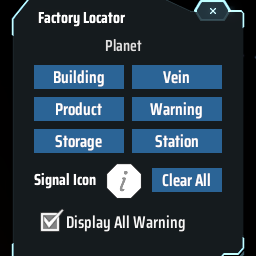
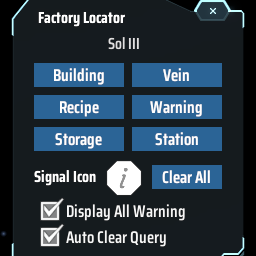
FactoryLocator - v1.2.0
- Add Auto Clear Query.
- Matrix production is now searchable.
- Add DSPMoreRecipes, GenesisBook compat.
- Add Chinese translation.

diff --git a/FactoryLocator/src/Plugin.cs b/FactoryLocator/src/Plugin.cs
@@ -16,7 +16,7 @@ namespace FactoryLocator
     {
         public const string GUID = "starfi5h.plugin.FactoryLocator";
         public const string NAME = "FactoryLocator";
-        public const string VERSION = "1.1.0";
+        public const string VERSION = "1.2.0";
 
         public static UILocatorWindow mainWindow = null;
         public static MainLogic mainLogic = null;

diff --git a/FactoryLocator/README.md b/FactoryLocator/README.md
@@ -2,11 +2,11 @@
 
 Find the positions of specified buildings and indicate them with warning icons.  
   
-![search local planet](https://raw.githubusercontent.com/starfi5h/DSP_Mod_Support/dev/FactoryLocator/doc/demo1.gif)  
+![search local planet](https://raw.githubusercontent.com/starfi5h/DSP_Mod_Support/dev/FactoryLocator/doc/demo3.gif)  
 The default hotkey to open the window is Ctrl + F. Keybind can be configured in game control settings.  
 In picker window, it will show all possible search options among all buildings. The yellow number shows how many buildings qualify for the condition, or how many items are inside all station/box storage.  
-The created warning will stay until Clear button is clicked. You can also toggle to show/hide all warnings.  
-
+Display All Warning: Toggle to show/hide all warnings.  
+Auto Clear Query: When disable, the created signals will stay until Clear button is clicked.  
   
 ![search remote planets](https://raw.githubusercontent.com/starfi5h/DSP_Mod_Support/dev/FactoryLocator/doc/demo2.gif)  
 By default, the mod will search for buildings on the local planet.  
@@ -25,12 +25,22 @@ The mod don't have to install on both host and client. Some behaviors will be di
 Install [NebulaCompatibilityAssist](https://dsp.thunderstore.io/package/starfi5h/NebulaCompatibilityAssist/) to get full functionality for clients.  
 
 ## Installation
-Via [r2modman](https://dsp.thunderstore.io/package/ebkr/r2modman/), or manual download the file and put `FactoryLocator.dll` in `BepInEx/plugins` folder.
+Via [r2modman](https://dsp.thunderstore.io/package/ebkr/r2modman/), or manual download the file and put `FactoryLocator.dll` in `BepInEx/plugins` folder.  
+Requrie [CommonAPI](https://dsp.thunderstore.io/package/CommonAPI/CommonAPI/) as dependency.  
 
 ----
 
-## Changelog
+![互动窗口](https://raw.githubusercontent.com/starfi5h/DSP_Mod_Support/dev/FactoryLocator/doc/icon_c.jpg)  
+查找特定建筑物的位置，并用警报图标指示它们。
 
-v1.1.0 - Show power status. Show all count in picker window. Remove warning when the entity destroyed. Fix blank warning.  
-v1.0.1 - Fix mod dependency error. Fix incorrect planet when searching by warning.  
-v1.0.0 - Initial release. (DSP 0.9.27.15033)  
+![键位设置](https://raw.githubusercontent.com/starfi5h/DSP_Mod_Support/dev/FactoryLocator/doc/keybind_c.jpg)  
+打开窗口的默认热键是Ctrl + F。可以在"游戏设置-键位-打开FactoryLocator窗口"更改。  
+在选择窗口中，将显示所有可能的搜索选项。黄色数字显示符合条件的建筑物数量，或者所有物流塔及储物仓中的物品数量。  
+显示所有警报提示: 关闭时会隐藏所有警报。  
+自动清除搜寻结果: 关闭时搜寻的信标将会保留, 直到按下清空按钮。  
+
+默认情况下，该模组将在本地星球上搜索建筑物。  
+在星图视图中，如果选中的星球上有工厂，该模组将更改搜索星球。选择恒星时，它将搜索星系中的所有星球。  
+鼠标悬停星球可以显示所有电网的电力供应状态。  
+
+单击警报详细信息图标可以显示警报位置。单击其他区域以关闭它。  

diff --git a/FactoryLocator/CHANGELOG.md b/FactoryLocator/CHANGELOG.md
@@ -1,0 +1,23 @@
+### v1.2.0 (DSP 0.9.27.15466)
+\- Add Auto Clear Query.  
+\- Matrix production is now searchable.  
+\- Add DSPMoreRecipes, GenesisBook compat.  
+\- Add Chinese translation.  
+
+<details>
+<summary>Previous Changelog</summary>
+
+### v1.1.0
+\- Show power status.  
+\- Show all count in picker window.  
+\- Remove warning when the entity destroyed.  
+\- Fix blank warning.  
+
+### v1.0.1 
+\- Fix mod dependency error.  
+\- Fix incorrect planet when searching by warning.  
+
+### v1.0.0
+\- Initial release. (DSP 0.9.27.15033)  
+
+</details>
